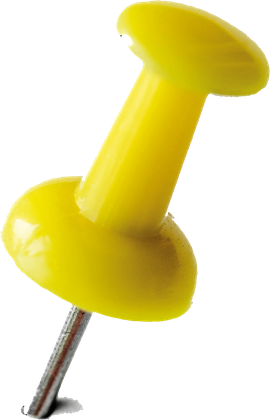
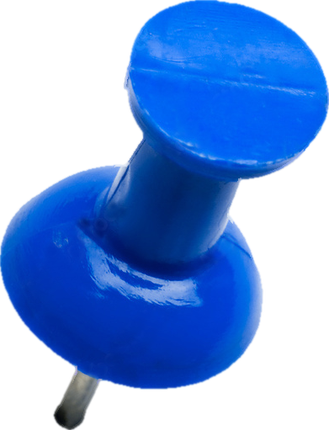
5k: blue pin, and split Apple Music from iTunes
The pin is the one Tim supplied, seen head-on with its needle in the paper,
so it reads as driven in rather than lying on top -- which the old one did,
being shot from the side. His cutout carried a white halo from the background
removal: the edge averaged rgb(105,147,210) against an interior of
rgb(10,80,197), on hard alpha. Shaved two pixels, pushed interior colour out
over what was left, and re-feathered, so the edge is now rgb(58,116,206) --
the remainder being the plastic's own rim light. Moved to the right of the
card at Tim's request.

Apple Music now points at the plain music.apple.com album, and the geo link
with Odesli's tags rides on a separate iTunes entry at the end of the row,
as he asked. Its mark is a ring with a beamed double note, drawn nonzero so
the inner circle cuts the ring while the note's pieces union.

diff --git a/5k/index.html b/5k/index.html
@@ -72,12 +72,14 @@ h1.logo svg{display:block;width:100%;height:auto}
 /* The block is the width of the Polaroid, so six services wrap underneath it
    instead of stretching the header and shoving the whole thing onto its own
    line. */
-/* A real push pin, cut out of a flat-lay photograph, lying across the top edge:
-   head overhanging the cream, tip down on the paper. It sits inside .pinned so
-   it keeps the Polaroid's tilt, and carries its own drop-shadow -- the wrapper's
-   filter would paint the pin's shadow behind the opaque card, where none of it
-   would show. Light comes from the upper left, as everywhere else on the table. */
-.pin{position:absolute;left:24%;top:-12.5cqw;width:24cqw;height:auto;
+/* A real push pin, seen head-on with its needle in the paper, so it reads as
+   driven in rather than resting on top. It sits inside .pinned to keep the
+   Polaroid's tilt, and carries its own drop-shadow -- the wrapper's filter
+   would paint that shadow behind the opaque card, where none of it would show.
+   Light comes from the upper left, as everywhere else on the table. Width is
+   set so the cone reads a touch larger than the old pin's, not so the image
+   boxes match: this one is a wider crop around the same object. */
+.pin{position:absolute;left:60%;top:-10cqw;width:23cqw;height:auto;
   pointer-events:none;transform:rotate(1.5deg);
   filter:drop-shadow(1.5px 2px 1.6px rgba(var(--shadow),.34))
          drop-shadow(6px 10px 9px rgba(var(--shadow),.3))}
@@ -462,12 +464,12 @@ h1.logo svg{display:block;width:100%;height:auto}
      <span class="pinned-shot"><img src="p/make-it-rain.jpg" alt="Darmon &amp; Sander Kleinenberg &mdash; Make It Rain" width="900" height="900" decoding="async"></span>
      <span class="pinned-note" aria-hidden="true"><i>Out now</i><b>new single</b></span>
     </span>
-    <img class="pin" src="p/pin.png" alt="" aria-hidden="true" width="270" height="420" decoding="async">
+    <img class="pin" src="p/pin.png" alt="" aria-hidden="true" width="329" height="430" decoding="async">
    </div>
    <ul class="plat">
     <li><a href="https://open.spotify.com/track/5xrKQ7HwqAcsPaXkU4x336" target="_blank" rel="noopener noreferrer"
      aria-label="Listen on Spotify" title="Spotify"><span class="plat-i"><svg viewBox="0 0 24 24" aria-hidden="true"><path d="M12 0C5.4 0 0 5.4 0 12s5.4 12 12 12 12-5.4 12-12S18.66 0 12 0zm5.521 17.34c-.24.359-.66.48-1.021.24-2.82-1.74-6.36-2.101-10.561-1.141-.418.122-.779-.179-.899-.539-.12-.421.18-.78.54-.9 4.56-1.021 8.52-.6 11.64 1.32.42.18.479.659.301 1.02zm1.44-3.3c-.301.42-.841.6-1.262.3-3.239-1.98-8.159-2.58-11.939-1.38-.479.12-1.02-.12-1.14-.6-.12-.48.12-1.021.6-1.141C9.6 9.9 15 10.561 18.72 12.84c.361.181.54.78.241 1.2zm.12-3.36C15.24 8.4 8.82 8.16 5.16 9.301c-.6.179-1.2-.181-1.38-.721-.18-.601.18-1.2.72-1.381 4.26-1.26 11.28-1.02 15.72 1.621.539.3.719 1.02.419 1.56-.299.421-1.02.599-1.559.3z"/></svg></span></a></li>
-    <li><a href="https://geo.music.apple.com/nl/album/_/6800771167?i=6800771168&amp;mt=1&amp;app=itunes&amp;ls=1" target="_blank" rel="noopener noreferrer"
+    <li><a href="https://music.apple.com/us/album/make-it-rain-single/6800771167" target="_blank" rel="noopener noreferrer"
      aria-label="Listen on Apple Music" title="Apple Music"><span class="plat-i"><svg viewBox="0 0 384 512" aria-hidden="true"><path d="M318.7 268.7c-.2-36.7 16.4-64.4 50-84.8-18.8-26.9-47.2-41.7-84.7-44.6-35.5-2.8-74.3 20.7-88.5 20.7-15 0-49.4-19.7-76.4-19.7C63.3 141.2 4 184.8 4 273.5q0 39.3 14.4 81.2c12.8 36.7 59 126.7 107.2 125.2 25.2-.6 43-17.9 75.8-17.9 31.8 0 48.3 17.9 76.4 17.9 48.6-.7 90.4-82.5 102.6-119.3-65.2-30.7-61.7-90-61.7-91.9zm-56.6-164.2c27.3-32.4 24.8-61.9 24-72.5-24.1 1.4-52 16.4-67.9 34.9-17.5 19.8-27.8 44.3-25.6 71.9 26.1 2 49.9-11.4 69.5-34.3z"/></svg></span></a></li>
     <li><a href="https://listen.tidal.com/track/551763853" target="_blank" rel="noopener noreferrer"
      aria-label="Listen on TIDAL" title="TIDAL"><span class="plat-i"><svg viewBox="0 0 239.5 159.7" aria-hidden="true"><path d="M159.67 39.938l-39.88 39.88-39.88-39.88 39.88-39.88zM159.669 119.756l-39.88 39.88-39.88-39.88 39.88-39.88zM79.809 39.912l-39.88 39.88-39.88-39.88 39.88-39.88zM239.505 39.93l-39.88 39.88-39.88-39.88 39.88-39.88z"/></svg></span></a></li>
@@ -477,6 +479,8 @@ h1.logo svg{display:block;width:100%;height:auto}
      aria-label="Listen on Pandora" title="Pandora"><span class="plat-i"><svg viewBox="0 0 24 24" aria-hidden="true"><path d="M5 0h7.6a6.7 6.7 0 0 1 0 13.4H10V24H5V0z"/></svg></span></a></li>
     <li><a href="https://www.beatport.com/release/make-it-rain-extended-mix/7345060" target="_blank" rel="noopener noreferrer"
      aria-label="Listen on Beatport" title="Beatport"><span class="plat-i"><svg viewBox="0 0 22 28" aria-hidden="true"><path d="M22 19.8977C21.9962 21.2183 21.6783 22.5181 21.0738 23.6845C20.4691 24.8508 19.596 25.8488 18.5301 26.5919C17.4641 27.3348 16.2374 27.8006 14.9561 27.9487C13.6748 28.0968 12.3777 27.9229 11.1768 27.442C9.97588 26.961 8.90752 26.1876 8.06422 25.1886C7.2209 24.1896 6.6281 22.9952 6.33699 21.7086C6.04592 20.4222 6.06538 19.0824 6.39366 17.8053C6.72198 16.5282 7.34925 15.3523 8.22116 14.3795L2.82452 19.8977L0 17.0049L6.06685 10.8626C6.46673 10.4536 6.78283 9.96689 6.99656 9.43114C7.21034 8.89538 7.31739 8.32122 7.31156 7.74244V0H11.2894V7.71569C11.307 8.8329 11.1009 9.94202 10.684 10.9746C10.2672 12.0073 9.64813 12.9415 8.86527 13.7198L8.68683 13.9025C9.82565 12.8426 11.2401 12.1436 12.7587 11.8899C14.2774 11.6362 15.8353 11.8388 17.2439 12.4732C18.6525 13.1075 19.8515 14.1463 20.6956 15.464C21.5396 16.7817 21.9927 18.3217 22 19.8977ZM18.3964 19.8977C18.405 19.0142 18.1571 18.1481 17.6842 17.4093C17.2112 16.6704 16.5346 16.0921 15.7402 15.7479C14.9457 15.4037 14.0693 15.3091 13.2222 15.4761C12.3751 15.6429 11.5957 16.0639 10.9826 16.6855C10.3695 17.307 9.95069 18.1012 9.77925 18.967C9.60778 19.8328 9.69139 20.7313 10.0194 21.5485C10.3476 22.3655 10.9053 23.0643 11.6219 23.5561C12.3385 24.0478 13.1817 24.3105 14.0443 24.3105C14.6136 24.3158 15.1783 24.2056 15.7058 23.9862C16.2333 23.7669 16.7133 23.4428 17.1179 23.0326C17.5225 22.6223 17.8436 22.1341 18.0632 21.596C18.2826 21.0579 18.3959 20.4808 18.3964 19.8977Z"/></svg></span></a></li>
+    <li><a href="https://geo.music.apple.com/nl/album/_/6800771167?i=6800771168&amp;mt=1&amp;app=itunes&amp;ls=1&amp;at=1000lHKX&amp;ct=odesli_http&amp;itscg=30200&amp;itsct=odsl_m" target="_blank" rel="noopener noreferrer"
+     aria-label="Listen on iTunes" title="iTunes"><span class="plat-i"><svg viewBox="0 0 24 24" aria-hidden="true"><path d="M0 12a12 12 0 1 1 24 0 12 12 0 1 1-24 0zM1.9 12a10.1 10.1 0 1 0 20.2 0 10.1 10.1 0 1 0-20.2 0zM10.3 16.3V9.1l6.9-1.65v7.6h-1.1V9.4l-4.7 1.12v5.78zM9.3 14.4a2.05 2.05 0 1 1 0 4.1 2.05 2.05 0 1 1 0-4.1zM15 13.5a2.05 2.05 0 1 1 0 4.1 2.05 2.05 0 1 1 0-4.1z"/></svg></span></a></li>
    </ul>
   </div>
  </header>
